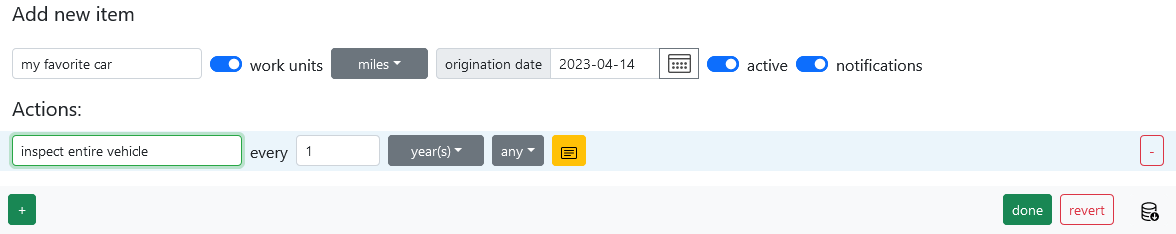
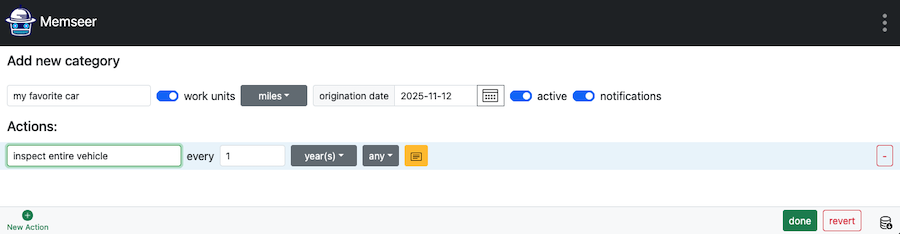
Update: vehicle

diff --git a/docs/examples/vehicle.md b/docs/examples/vehicle.md
@@ -7,23 +7,23 @@ nav_order: 5
 
 # Vehicle
 
-You have a vehicle and would like to keep it in a good shape, so lets put together list of actions that are needed. In this example I'll use community provided actions from [General Modern Toyotas](https://docs.memseer.com/docs/shared.html). Please feel free to adjust maintenance intervals. 
+You have a vehicle and would like to keep it in good shape, so let’s put together a list of actions that are needed. In this example I'll use community provided actions from [General Modern Toyotas](https://docs.memseer.com/docs/shared.html). Please feel free to adjust maintenance intervals. 
 
 Navigate to [memseer.com](https://memseer.com){:target="_blank"}
 
 ![](../../assets/images/guides/sign_up/signin.jpg)
 
-Enter your email and password and complete sign in.
+You will be redirected to the main dashboard. In the bottom left corner click on "New Category".
 
-Let's add new item from dashboard:
+Let's add a new category from the dashboard:
 
-![](../../assets/images/examples/vehicle/add_new_item.png)
+![](../../assets/images/examples/vehicle/add_new_category.png)
 
 Give it a name (for example: "my favorite car"), click "work units", select "miles" from the dropdown and select origination date:
 
 ![](../../assets/images/examples/vehicle/my_favorite_car.png)
 
-Now it is time to add actions! Here is a list of actions that we will be adding:
+Now, it is time to add actions! Here is a list of actions that we will be adding:
 
 * inspect entire vehicle every 1 year
 * replace battery every 4 years
@@ -38,7 +38,7 @@ Now it is time to add actions! Here is a list of actions that we will be adding:
 * replace transmission fluid every 60000 miles
 * rotate tires 15000 miles
 
-Click on "+" under "Actions" section and fill out first action:
+Click on "New Action", under the "Actions" section: fill out the first action:
 
 ![](../../assets/images/examples/vehicle/first_action.png)
 
@@ -46,11 +46,11 @@ Continue adding actions, so you end up with following list:
 
 ![](../../assets/images/examples/vehicle/my_favorite_car_with_actions.png)
 
-Now click "done". You will be dropped back to dashboard, and you will see your new item:
+Now click "save". You will be dropped back to the dashboard, and you will see your new category:
 
-![](../../assets/images/examples/vehicle/new_item.png)
+![](../../assets/images/examples/vehicle/new_category.png)
 
-Note, there is a warning sign, indicating some missing information - which is normal because there is no current milage provided for the vehicle. Let's add that information, click on the warning sign and fill out current miles (for example vehicle done 100 miles this far):
+Note, there is a warning sign, indicating some missing information - which is normal because there is no current mileage provided for the vehicle. Let's add that information, click on the warning sign and fill out the current miles (for example the vehicle’s done 200 miles this far):
 
 ![](../../assets/images/examples/vehicle/add_current_miles.png)
 
@@ -58,14 +58,14 @@ Click "save" and you will be returned to the dashboard. Now there is no more mis
 
 ![](../../assets/images/examples/vehicle/no_missing_information.png)
 
-**Please note:** at the current pace of 100 miles per day, you will hit you first oil change in about 2 months. But perhaps you don't drive 100 miles per day and only done 100 miles this one time. No problem, just keep adding events to the item, Memseer will recalculate your daily average as more information arrives.
+**Please note:** at the current pace of 200 miles per day, you will hit you first oil change in less than one month. But perhaps you don't drive 200 miles per day and only done 200 miles this one time. No problem, just keep adding events to the item, Memseer will recalculate your daily average as more information arrives.
 
-Lets say few days gone by, we can add new event with current milage, let's click on "+ event"
+Let’s say few days have gone by, we can add new record with the current mileage, let's click on "+ New"
 
-![](../../assets/images/examples/vehicle/add_quick_event.png)
+![](../../assets/images/examples/vehicle/add_quick_record.png)
 
-Type "current miles" into name field and add current miles into miles field (lets say you are at 110 miles), click save and you will be dropped back to the dashboard with recalculated schedule:
+Type "current miles" into name field and add current miles into miles field (let’s say you are at 260 miles). Click save, next you will be dropped back to the dashboard with the recalculated schedule:
 
-![](../../assets/images/examples/vehicle/recalculated_schedule.png)
+![](../../assets/images/examples/vehicle/recalculate_schedule.png)
 
-Now your oil service is calculated to be in 6 months. As you keep driving and adding more events to the item, Memseer will be constantly recalculating and making sure that maintenance is scheduled at the correct time.
+Now your oil service is calculated to be in three months. As you keep driving and adding more events to the item, Memseer will be constantly recalculating and making sure that maintenance is scheduled at the correct time.
